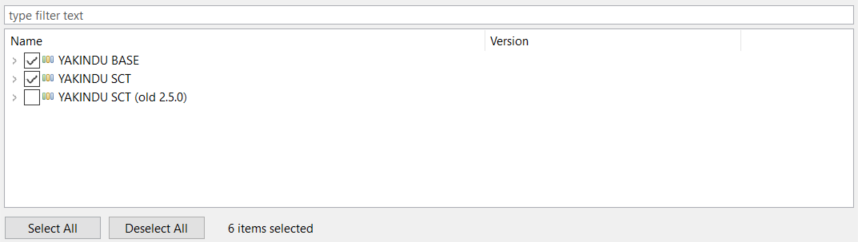
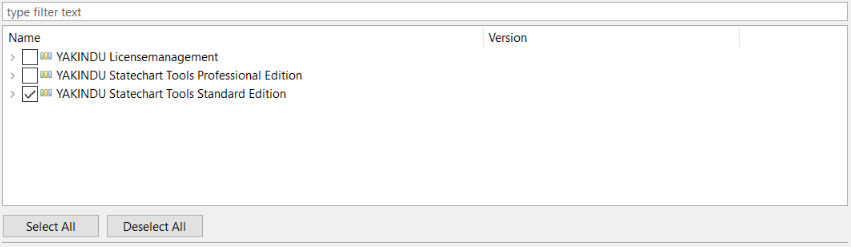
added CCS6 support and updated to 3.0

Changed region(s): [[0.0, 0.0, 1.0, 1.0]]

diff --git a/msp430_blinky/index.html b/msp430_blinky/index.html
@@ -17,7 +17,7 @@
     <p>1. Installing the YAKINDU Statechart Tool as a Plugin into Texas
       Instruments Code Composer Studio
     <p>2. Adding state machines to the project
-    <p>3. Creating the Blinky example with the Community Edition
+    <p>3. Creating the Blinky example with the Standard Edition
     <p>The whole tutorial gives you step-by-step instructions to enable you
       to upload the project.</p>
 
@@ -54,16 +54,14 @@
       not done this already. Then you will get a number of different
       installation options.
     <p>
-      Click on <i>Community Edition</i> on the bottom right of the site.
-      Afterwards, choose the newest release and then click on the black button
-      with <i>Install from update site</i>.
+      Choose the black button with <i>install from update site</i>
     <p>
       <img class="standard-image" src="images/DownloadOptions.png" />
     <p>
       Once again, go over to <i>install new software</i>. There you add the URL
-      you copied from our site. Choose <i>YAKINDU BASE</i> and <i>YAKINDU
-        SCT</i>. You also can download a Professional Edition, which includes a
-      trial version for 30 days. You can still use the Community Edition
+      you copied from our site. Choose <i>YAKINDU Statechart Tools Standard Edition</i>. You also can install
+      a Professional Edition, which includes a
+      trial version for 30 days. You can still use the Standard Edition
       features after the trial version has expired.
     <p>
       <img class="standard-image" src="images/installSCT.png" />
@@ -83,7 +81,7 @@
       .
     <p>Now you can start working with state machines!
     <p>
-    <h2>Working with YAKINDU Statecharts Tool Community Edition</h2>
+    <h2>Working with YAKINDU Statecharts Tool Standard Edition</h2>
     <p>
       Right click the project, open New and choose a <i>Statechart Model</i>. A
       Wizard will be opened in which you can select your project and name your
@@ -97,7 +95,7 @@
       Afterwards add the three states, name them and add the transitions, like
       shown on the following picture. <img class="standard-image"
         src="images/StatechartTrans.png" />
-    <p>In the Community Edition you cannot include header files, but it is
+    <p>In the Standard Edition you cannot include header files, but it is
       possible to create operations, in which the MSP430 specific C-Code can be
       called. Open the textual notifications and add three internal operations:
 
@@ -182,6 +180,27 @@
     <p>Code Composer Version: 7.0.0.00043
     <p>
       <i>Note: The MSP430G2 Launchpad does not support Linux.</i>
+    <h2>Support for Code Composer Studio Version 6</h2>
+	<p> Code Composer Studio V6 is based Eclipse Mars (4.5.) and Java 7.
+	  Installing and running YAKINDU Statechart Tools within CCSV6 requires two steps:</p>
+	<p> 1st: Use the Mars update site instead of the Neon update site, which you <a
+      href="http://download.eclipse.org/releases/mars/">can find here</a>. As I mentioned 
+      before, you do not need to install anything of the Mars update site. Just add the update site. 
+      After this you are able to install YAKINDU Statechart Tools within CCS V6 as described before. 
+      You need to get the download site of YAKINDU Statechart Tools. 
+      Go to <a href=https://info.itemis.com/download-yakindu-statechart-tools>
+      our download site </a> and complete the free registration, in case you have
+      not done this already. Then you will get a number of different
+      installation options. Choose the black button with <i>install from
+      update site</i>.</p>
+    <p> 2nd: YAKINDU Statechart Tools has been added, but it won't be executed, 
+      because Java 8 is missing. Therefore, if you don't already have, install a 32 bit version of Java 8. 
+      Afterwards, right click your CCS V6 shortcut and add the path of the 32 bit Java 8.
+      For my machine it looks like this:</p>
+    <p>
+      	<i>C:\ti2\ccsv6\eclipse\ccstudio.exe <b>-vm "C:\Program Files (x86)\Java\jre1.8.0_141\bin"</b></i>	
+    </p>
+    <p>  <img class="standard-image" src="images/ShortcutPath.PNG" /> </p>
   </div>
 </body>
 </html>

diff --git a/msp430_blinky_pro/index.html b/msp430_blinky_pro/index.html
@@ -70,7 +70,7 @@
       you copied from our site. Choose at least the <i>YAKINDU Statechart
         Tools Professional Edition</i>. You will get a trial version, which lasts
       for 30 days. Don’t hesitate, our aren’t buying anything. If the time
-      expired, you can still use all free Community Edition features.
+      expired, you can still use all free Standard Edition features.
     </p>
     <p>
       <img class="standard-image" src="images/installSCT.png" />
@@ -228,7 +228,28 @@
     <p>
       <i>Note: The MSP430G2 Launchpad does not support Linux.</i>
     </p>
-
+	
+	<h2>Support for Code Composer Studio Version 6</h2>
+	<p> Code Composer Studio V6 is based Eclipse Mars (4.5.) and Java 7.
+	  Installing and running YAKINDU Statechart Tools within CCSV6 requires two steps:</p>
+	<p> 1st: Use the Mars update site instead of the Neon update site, which you <a
+      href="http://download.eclipse.org/releases/mars/">can find here</a>. As I mentioned 
+      before, you do not need to install anything of the Mars update site. Just add the update site. 
+      After this you are able to install YAKINDU Statechart Tools within CCS V6 as described before. 
+      You need to get the download site of YAKINDU Statechart Tools. 
+      Go to <a href=https://info.itemis.com/download-yakindu-statechart-tools>
+      our download site </a> and complete the free registration, in case you have
+      not done this already. Then you will get a number of different
+      installation options. Choose the black button with <i>install from
+      update site</i>.</p>
+    <p> 2nd: YAKINDU Statechart Tools has been added, but it won't be executed, 
+      because Java 8 is missing. Therefore, if you don't already have, install a 32 bit version of Java 8. 
+      Afterwards, right click your CCS V6 shortcut and add the path of the 32 bit Java 8.
+      For my machine it looks like this:</p>
+    <p>
+      	<i>C:\ti2\ccsv6\eclipse\ccstudio.exe <b>-vm "C:\Program Files (x86)\Java\jre1.8.0_141\bin"</b></i>	
+    </p>
+    <p>  <img class="standard-image" src="images/ShortcutPath.PNG" /> </p>
   </div>
 </body>
 </html>
